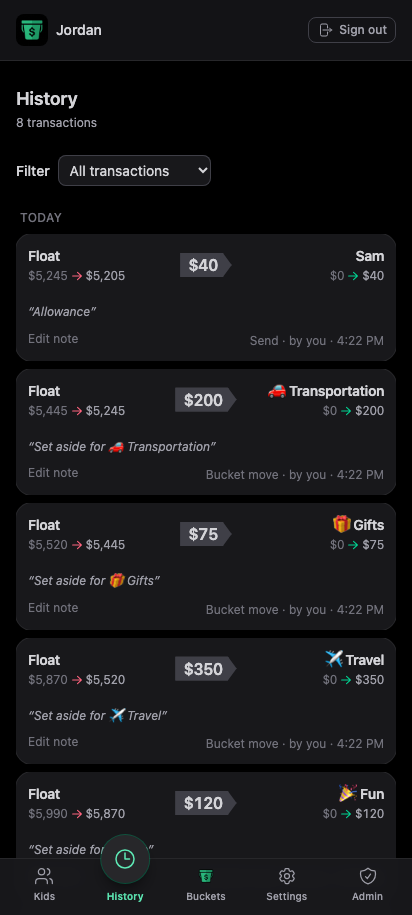
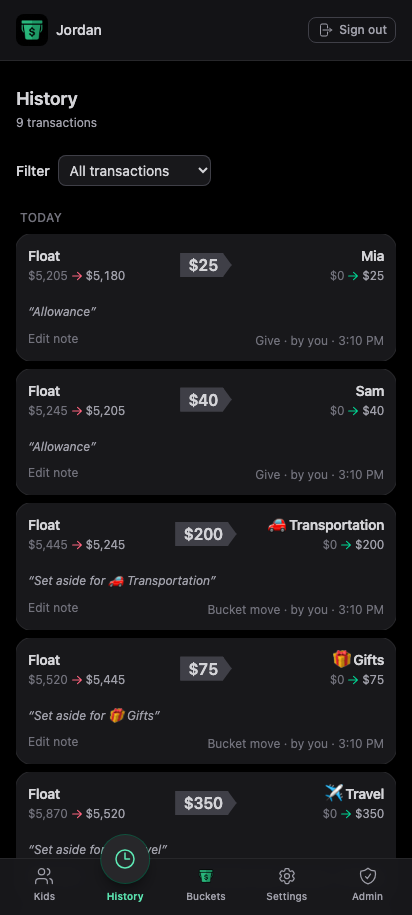
v1.5.28: Refresh PWA install screenshots and demo GIF (#237)
The Kids section "Virtual kids" was renamed to "No linked account", which
broke the screenshot capture spec. Fix the spec to use brand constants so it
tracks future renames.

Screenshots:
- Kids seed now populates both sections: virtual kids Mia/Sam (no linked
  account) and linked kids Ava/Noah (owner-scoped Teller accounts, excluded
  from the shared Float so the rebalance math is unchanged).
- Capture spec waits for both the "No linked account" and "Linked accounts"
  regions and all four kid names.

Demo GIF:
- The gif seed now backs the $5,000 with a single linked bank account instead
  of a manual source, so the Buckets tab row shows the "Bank" tab. A single
  source keeps the Float subtext at "across 1 money source" and the demo flow
  unchanged.

diff --git a/scripts/seed/scenarios.ts b/scripts/seed/scenarios.ts
@@ -5,11 +5,12 @@ import {
   PWA_SCREENSHOT_BUCKETS,
   PWA_SCREENSHOT_MANUAL_SOURCE,
   PWA_SCREENSHOT_SCENARIO_ID,
-  PWA_SCREENSHOT_GIVE_AMOUNT,
+  PWA_SCREENSHOT_VIRTUAL_KIDS,
+  PWA_SCREENSHOT_LINKED_KIDS,
 } from './pwaScreenshots'
 import {
   PWA_DEMO_GIF_ADMIN_DISPLAY_NAME,
-  PWA_DEMO_GIF_MANUAL_SOURCE,
+  PWA_DEMO_GIF_BANK_SOURCE,
   PWA_DEMO_GIF_SCENARIO_ID,
 } from './pwaDemoGifs'
 import {
@@ -173,12 +174,13 @@ async function seedPwaGifs(id: ScenarioId): Promise<SeedResult> {
     seedAdminEmail(id),
     { displayName: PWA_DEMO_GIF_ADMIN_DISPLAY_NAME },
   )
-  const adminClient = await userClient(admin.adminEmail, admin.adminPassword)
-  await addManualSource(
-    adminClient,
-    PWA_DEMO_GIF_MANUAL_SOURCE.label,
-    PWA_DEMO_GIF_MANUAL_SOURCE.amount,
-  )
+  await addSeedTellerAccounts(admin.familyId, [
+    {
+      label: PWA_DEMO_GIF_BANK_SOURCE.label,
+      accountType: PWA_DEMO_GIF_BANK_SOURCE.accountType,
+      balance: PWA_DEMO_GIF_BANK_SOURCE.balance,
+    },
+  ])
   const joinCode = await getJoinCode(admin.familyId)
   return {
     scenario: id,
@@ -186,7 +188,7 @@ async function seedPwaGifs(id: ScenarioId): Promise<SeedResult> {
     admin,
     joinCode,
     notes: [
-      '$5,000 manual source, no buckets — run npm run pwa:gifs after sign-in.',
+      '$5,000 linked bank source, no buckets — shows the Bank tab. Run npm run pwa:gifs after sign-in.',
       `Sign in at /login as ${admin.adminEmail}.`,
     ],
   }
@@ -481,7 +483,16 @@ async function seedPwaScreenshots(id: ScenarioId): Promise<SeedResult> {
     seedAdminEmail(id),
     { displayName: PWA_SCREENSHOT_ADMIN_DISPLAY_NAME },
   )
-  const sam = await addSeedMember(admin.familyId, 'child', 'Sam', id)
+  const virtualKids = await Promise.all(
+    PWA_SCREENSHOT_VIRTUAL_KIDS.map((kid) =>
+      addSeedMember(admin.familyId, 'child', kid.name, id),
+    ),
+  )
+  const linkedKids = await Promise.all(
+    PWA_SCREENSHOT_LINKED_KIDS.map((kid) =>
+      addSeedMember(admin.familyId, 'child', kid.name, id),
+    ),
+  )
 
   const adminClient = await userClient(admin.adminEmail, admin.adminPassword)
   await addManualSource(
@@ -501,11 +512,23 @@ async function seedPwaScreenshots(id: ScenarioId): Promise<SeedResult> {
     })
   }
 
-  await giveMoney(adminClient, {
-    toMemberId: sam.memberId,
-    amount: PWA_SCREENSHOT_GIVE_AMOUNT,
-    note: 'Allowance',
-  })
+  for (let i = 0; i < PWA_SCREENSHOT_VIRTUAL_KIDS.length; i++) {
+    await giveMoney(adminClient, {
+      toMemberId: virtualKids[i]!.memberId,
+      amount: PWA_SCREENSHOT_VIRTUAL_KIDS[i]!.allowance,
+      note: 'Allowance',
+    })
+  }
+
+  await addSeedTellerAccounts(
+    admin.familyId,
+    PWA_SCREENSHOT_LINKED_KIDS.map((kid, i) => ({
+      label: kid.accountLabel,
+      accountType: kid.accountType,
+      balance: kid.balance,
+      ownerMemberId: linkedKids[i]!.memberId,
+    })),
+  )
 
   const joinCode = await getJoinCode(admin.familyId)
   return {
@@ -513,9 +536,10 @@ async function seedPwaScreenshots(id: ScenarioId): Promise<SeedResult> {
     familyName: 'Seed · PWA screenshots',
     admin,
     joinCode,
-    members: [sam],
+    members: [...virtualKids, ...linkedKids],
     notes: [
       'Buckets tab shows emoji labels and green Float — onboarding coach is complete.',
+      'Kids tab has both "No linked account" and "Linked accounts" sections populated.',
       'Kids and History tabs have sample activity for install screenshots.',
       `Sign in at /login as ${admin.adminEmail}, then run npm run pwa:screenshots.`,
     ],

diff --git a/tests/pwa-screenshots/capture.spec.ts b/tests/pwa-screenshots/capture.spec.ts
@@ -1,12 +1,19 @@
 import { mkdir } from 'node:fs/promises'
 import { join } from 'node:path'
 import { expect, test } from '@playwright/test'
-import { NAV_BUCKETS_LABEL, FLOAT_NEGATIVE_HINT } from '../../src/lib/brand'
+import {
+  NAV_BUCKETS_LABEL,
+  FLOAT_NEGATIVE_HINT,
+  KIDS_VIRTUAL_SECTION_TITLE,
+  KIDS_LINKED_SECTION_TITLE,
+} from '../../src/lib/brand'
 import { applyPwaScreenshotRebalance } from '../../scripts/seed/pwaScreenshotRebalance'
 import { seedAdminEmail } from '../../scripts/seed/constants'
 import {
   PWA_SCREENSHOT_BUCKETS,
   PWA_SCREENSHOT_SCENARIO_ID,
+  PWA_SCREENSHOT_VIRTUAL_KIDS,
+  PWA_SCREENSHOT_LINKED_KIDS,
 } from '../../scripts/seed/pwaScreenshots'
 import {
   signInPwaScreenshotAdmin,
@@ -41,8 +48,20 @@ test('capture PWA install screenshots', async ({ page }) => {
   await expect(page).toHaveURL('/kids')
   await waitForNavSettled(page, 'Kids')
   await page.getByRole('heading', { name: 'Kids', exact: true }).waitFor()
-  await page.getByRole('region', { name: 'Virtual kids' }).waitFor()
-  await page.getByRole('listitem').filter({ hasText: 'Sam' }).waitFor()
+  const virtualSection = page.getByRole('region', {
+    name: KIDS_VIRTUAL_SECTION_TITLE,
+  })
+  await virtualSection.waitFor()
+  for (const kid of PWA_SCREENSHOT_VIRTUAL_KIDS) {
+    await virtualSection.getByText(kid.name, { exact: true }).waitFor()
+  }
+  const linkedSection = page.getByRole('region', {
+    name: KIDS_LINKED_SECTION_TITLE,
+  })
+  await linkedSection.waitFor()
+  for (const kid of PWA_SCREENSHOT_LINKED_KIDS) {
+    await linkedSection.getByText(kid.name, { exact: true }).waitFor()
+  }
   await page.screenshot({ path: join(outputDir, 'kids.png') })
 
   await applyPwaScreenshotRebalance(adminEmail)

diff --git a/scripts/seed/pwaScreenshots.ts b/scripts/seed/pwaScreenshots.ts
@@ -25,8 +25,26 @@ export const PWA_SCREENSHOT_BUCKETS = [
   { name: '🚗 Transportation', amount: 200 },
 ] as const
 
-/** Matches `giveMoney` in the pwa-screenshots seed — affects Float before rebalance capture. */
-export const PWA_SCREENSHOT_GIVE_AMOUNT = 40
+/** Kids with no linked bank account — funded from Float via Give, shown in the
+ *  "No linked account" section. */
+export const PWA_SCREENSHOT_VIRTUAL_KIDS = [
+  { name: 'Sam', allowance: 40 },
+  { name: 'Mia', allowance: 25 },
+] as const
+
+/** Kids whose money lives in a linked bank account — shown in the "Linked
+ *  accounts" section. Teller accounts are owner-scoped, so they do not touch
+ *  the shared Float. */
+export const PWA_SCREENSHOT_LINKED_KIDS = [
+  { name: 'Ava', accountLabel: 'Ava checking', accountType: 'checking', balance: 320 },
+  { name: 'Noah', accountLabel: 'Noah savings', accountType: 'savings', balance: 1280 },
+] as const
+
+/** Total given to virtual kids — affects Float before rebalance capture. */
+export const PWA_SCREENSHOT_GIVE_AMOUNT = PWA_SCREENSHOT_VIRTUAL_KIDS.reduce(
+  (sum, kid) => sum + kid.allowance,
+  0,
+)
 
 /** Playwright device viewport — sizes must match manifest `sizes` and PNG pixels. */
 export const PWA_SCREENSHOT_VIEWPORT = { width: 412, height: 915 } as const

diff --git a/scripts/seed/pwaDemoGifs.ts b/scripts/seed/pwaDemoGifs.ts
@@ -7,9 +7,13 @@ export const PWA_DEMO_GIF_SCENARIO_ID = 'pwa-gifs' as const
 
 export const PWA_DEMO_GIF_ADMIN_DISPLAY_NAME = 'Jordan'
 
-export const PWA_DEMO_GIF_MANUAL_SOURCE = {
+/** Linked bank account (not manual) so the demo shows the "Bank" tab in the
+ *  Buckets tab row. A single source keeps the Float subtext at "across 1 money
+ *  source" and the headline at $5,000. */
+export const PWA_DEMO_GIF_BANK_SOURCE = {
   label: 'Checking',
-  amount: 5000,
+  accountType: 'checking',
+  balance: 5000,
 } as const
 
 export const PWA_DEMO_GIF_BUCKETS = ['🛒 Groceries', '🏠 Rent', '🎉 Fun'] as const
